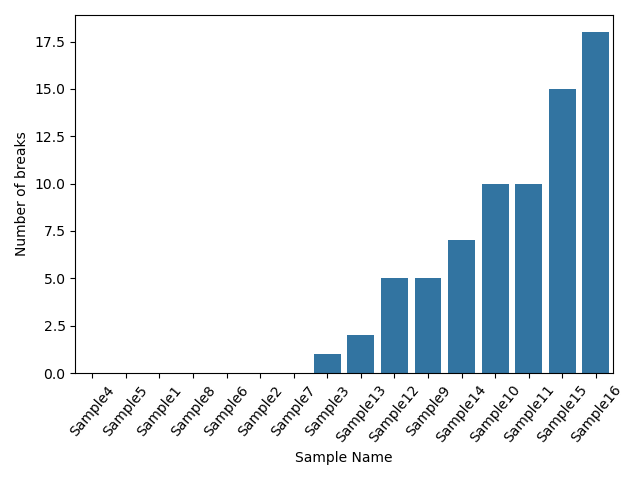
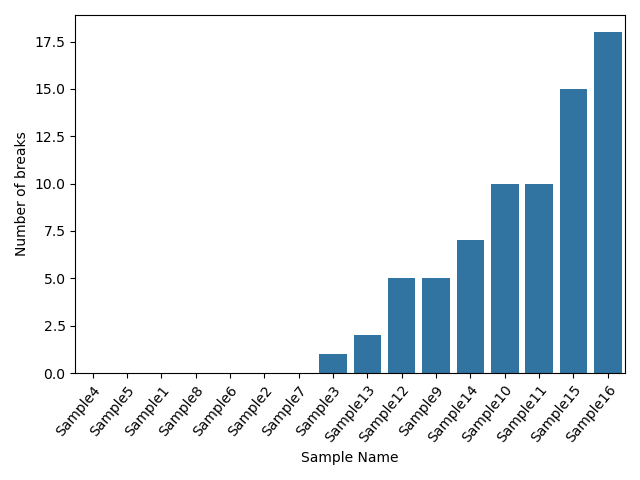
fix xaxis aligment

Changed region(s): [[0.0938, 0.0625, 1.0, 0.9688], [0.4688, 0.75, 0.5, 0.7812]]

diff --git a/processing_pipeline/utils.py b/processing_pipeline/utils.py
@@ -46,7 +46,7 @@ def barplot(dataset: pd.DataFrame, ycol: str, ylabel: str, base_dir, output: str
     """
     plt.figure()
     plot = sns.barplot(data= dataset, x = 'sample_name', y = ycol)
-    plt.xticks(rotation=50)
+    plt.xticks(rotation=50, ha='right', rotation_mode='anchor')
     plt.tight_layout()
     plot.set(xlabel = 'Sample Name', ylabel = ylabel)
     plt.savefig(
